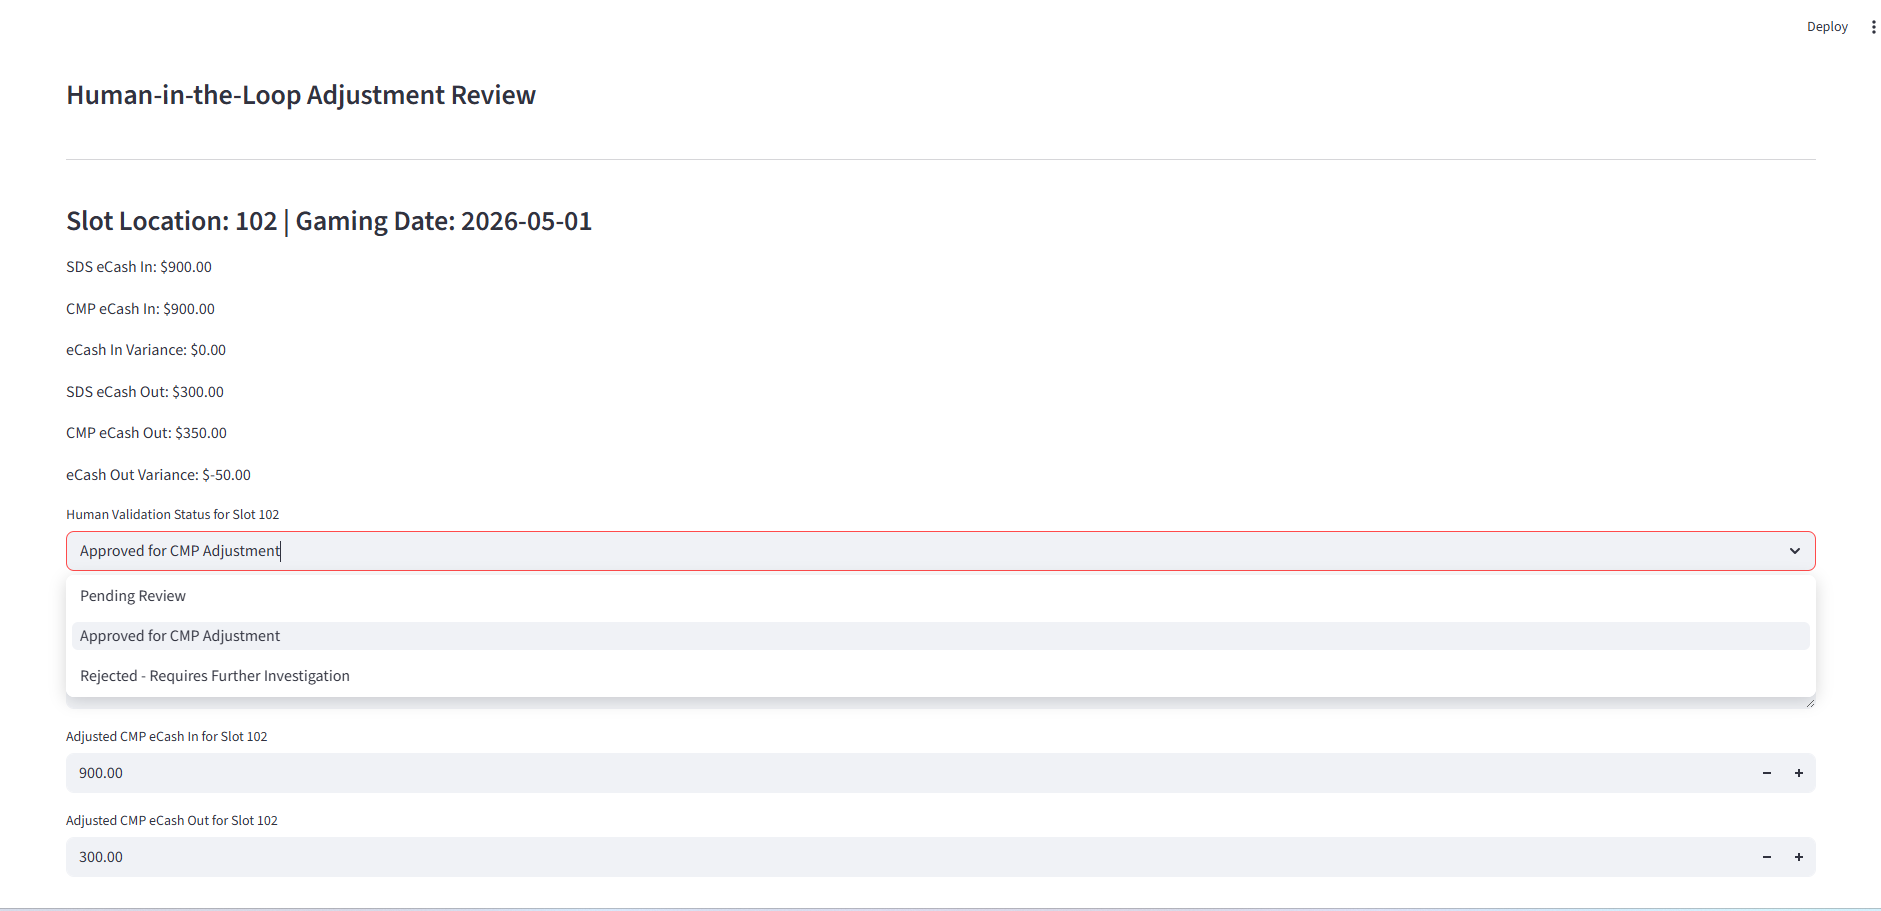
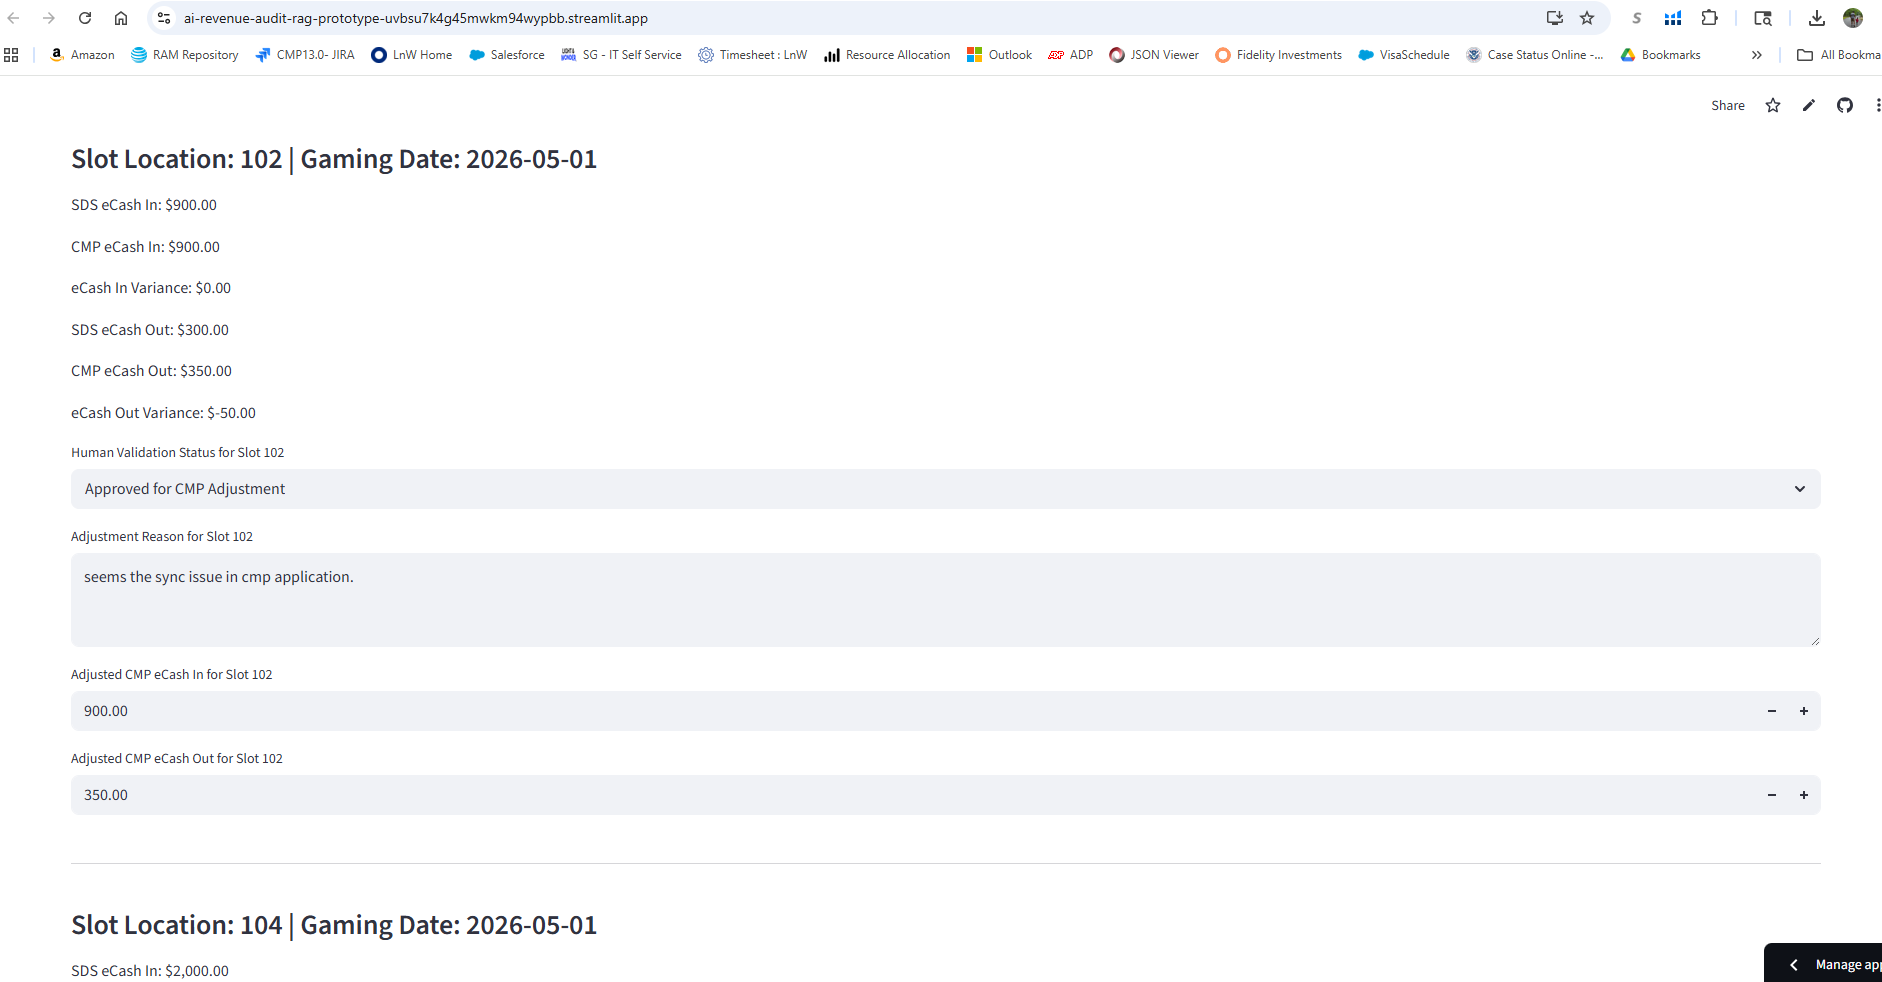
changed to live screen shots

diff --git a/AGENTS.md b/AGENTS.md
@@ -1,0 +1,56 @@
+# AI Revenue Audit RAG Prototype - Agent Instructions
+
+## Project Overview
+This is a Python Streamlit application for AI-assisted casino eCash reconciliation using Retrieval-Augmented Generation (RAG) with OpenAI. The app compares SDS Slot System data against CMP data, detects variances, and provides AI audit recommendations grounded in SOP guidance.
+
+## Tech Stack
+- **Frontend**: Streamlit
+- **Data Processing**: Pandas
+- **AI**: OpenAI API (GPT models)
+- **Environment**: python-dotenv
+
+## Development Setup
+```bash
+pip install -r requirements.txt
+export OPENAI_API_KEY=your_key_here
+streamlit run app.py
+```
+
+## Architecture Decisions
+- **Deterministic Calculations**: All financial reconciliations use pure Python/Pandas logic. AI never performs calculations.
+- **SDS as Source of Truth**: All adjustments must validate against SDS values.
+- **Human-in-the-Loop**: AI provides recommendations, but humans must approve all adjustments.
+- **RAG Workflow**: AI recommendations are grounded in [knowledge_base/ecash_audit_sop.txt](knowledge_base/ecash_audit_sop.txt).
+
+## Key Conventions
+- CSV files must have columns: `slot_location`, `gamingdt`, `ecash_in`, `ecash_out`
+- Reconciliation uses outer merge on `slot_location` + `gamingdt`
+- Variance columns: `ecash_in_variance`, `ecash_out_variance`
+- All financial values are floats; handle precision carefully
+
+## Common Pitfalls
+- **OpenAI API**: Use `client.chat.completions.create()` with `messages=[{"role": "user", "content": prompt}]`, not `client.responses.create()`
+- **Model Names**: Use valid models like "gpt-4" or "gpt-3.5-turbo", not "gpt-4.1-mini"
+- **Environment Variables**: Always check for `OPENAI_API_KEY`; missing key causes silent failures
+- **File Paths**: Use relative paths from app.py location for data/SOP files
+- **Streamlit Reruns**: Code executes on every interaction; optimize for performance
+
+## Key Files
+- [app.py](app.py): Main Streamlit application
+- [requirements.txt](requirements.txt): Dependencies
+- [README.md](README.md): Business and technical documentation
+- [knowledge_base/ecash_audit_sop.txt](knowledge_base/ecash_audit_sop.txt): SOP rules for RAG
+- [data/](data/): Sample CSV files for testing
+
+## Testing
+- Use sample CSVs in [data/](data/) for development
+- Test reconciliation logic with known variance scenarios
+- Verify AI recommendations reference SOP rules correctly
+- Check adjustment validation against SDS values
+
+## Code Style
+- Follow Python PEP 8 conventions
+- Use descriptive variable names for financial data
+- Add docstrings to functions, especially reconciliation logic
+- Handle exceptions gracefully in API calls</content>
+<parameter name="filePath">c:\Users\gowri\OneDrive\Documents\ai-revenue-audit-rag-prototype\AGENTS.md
